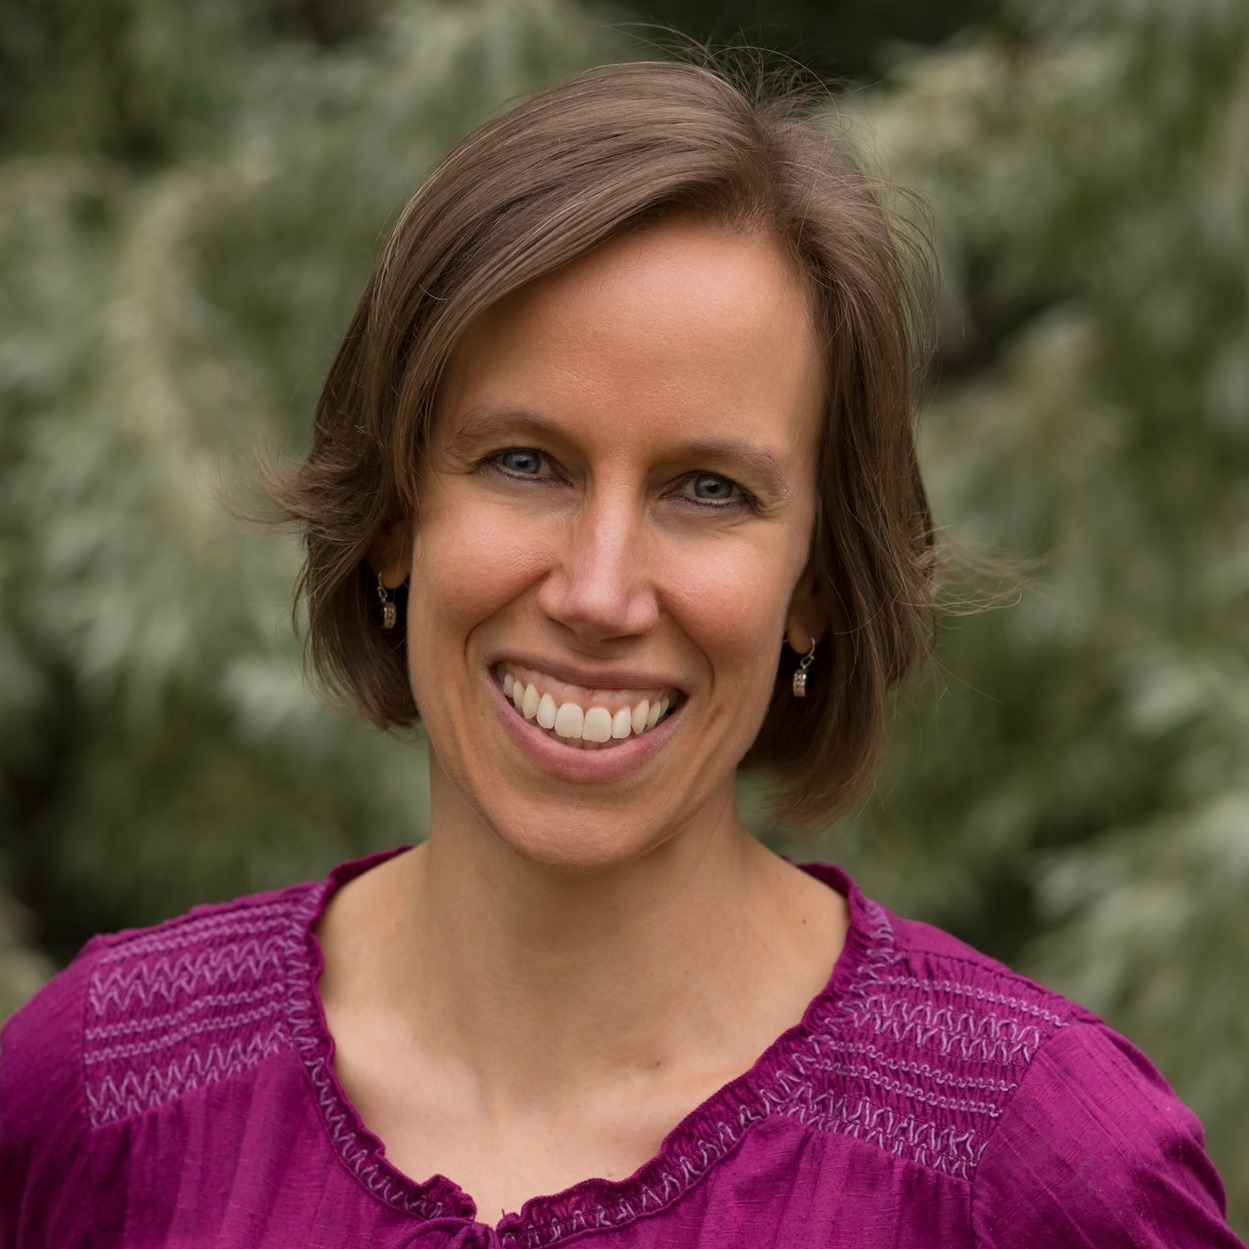
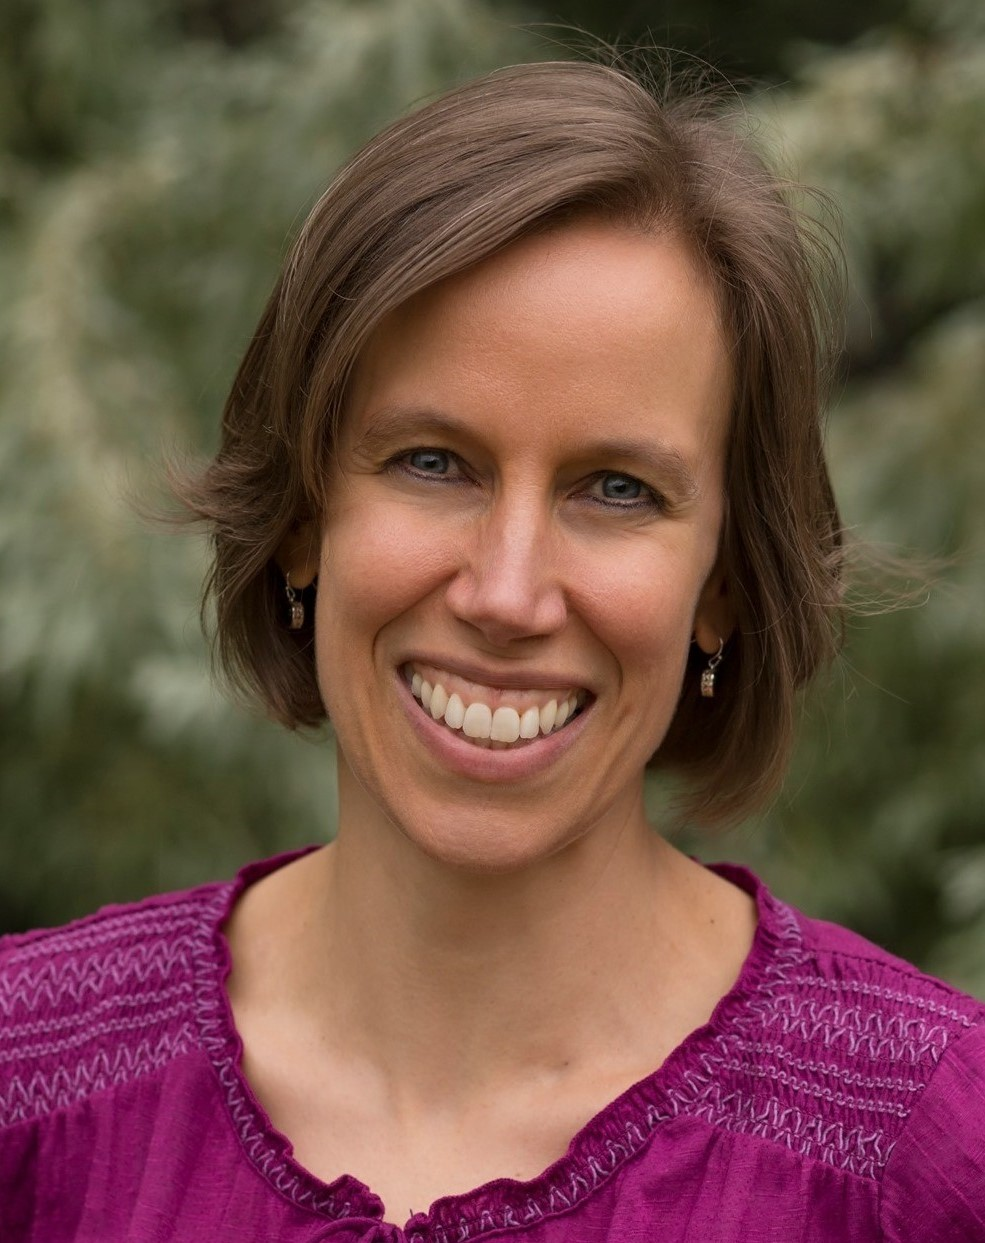
final

diff --git a/style.css b/style.css
@@ -78,13 +78,9 @@ i {
     color: #294649;
 }
 .main-section {
-    /* background-size: cover; */
     padding: 30px;
     height: 100%;
     width: 100%;
-    /* background-attachment: fixed;
-    background-position: center;
-    background-repeat: no-repeat; */
 }
     
 .main-flex {
@@ -99,9 +95,10 @@ i {
     font-family: 'Island Moments', cursive;
     justify-self: flex-start;
     position: absolute;
-    bottom: 100px;
-    left: 400px;
-    /* repostion */
+    bottom: 270px;
+    left: 775px;
+    transform: rotate(-10deg);
+    text-shadow: #ccb7a9;
 }    
 
 .my-photo {
@@ -109,9 +106,11 @@ i {
 }
 
 .my-photo img{
-    border-radius: 100px;
-    height: 300px;
+    border-radius: 50%;
+    height: 475px;
     border: solid #ccb7a9;
+    margin-top: 50px;
+    margin-left: 100px;
 }
 
 .top-heading {
@@ -123,7 +122,7 @@ i {
     border-radius: 5px;
     font-family: 'Syne Mono', monospace;
     justify-content: flex-end;
-    margin: 50px;
+    margin: 100px 40px 40px 40px;
 }
     
 .top-heading h1 {
@@ -134,6 +133,30 @@ i {
     font-size: 25px;
 }
 
+.top-heading h3 a:link {
+    color: #c2601c;
+    background-color: transparent;
+    text-decoration: none;
+  }
+
+.top-heading h3 a:visited {
+    color: #ac6026;
+    background-color: transparent;
+    text-decoration: underline;
+  }
+
+  .top-heading h3 a:hover {
+    color: #ad7e5a;
+    background-color: transparent;
+    text-decoration: none;
+  }
+
+  .top-heading h3 a:active {
+    color: #c0dce6;
+    background-color: transparent;
+    text-decoration: underline;
+  }
+
 .quote {
     font-family: 'Lora', serif;
     font-size: 20px;
@@ -143,7 +166,7 @@ i {
     height: fit-content;
     border-radius: 5px;
     padding: 5px 10px 5px 20px;
-    margin-left: 200px;
+    margin-left: 150px;
 }
 
 .photo-credit {
@@ -151,4 +174,11 @@ i {
     bottom: 0;
     right: 0;
     color: #ccb7a9;
+    margin: 20px;
+}
+.photo-credit a:link {
+    color:#c2601c;
+}
+.photo-credit a:visited {
+    color: #ad7e5a;
 }

diff --git a/index.html b/index.html
@@ -56,12 +56,13 @@
         <main class="main-section">
             <div class="main-flex">
                 <div class="my-photo">
-                    <img src="assets/TubaChristmas.jpg" alt="Photo of Me">
+                    <img src="assets/photo.jpg" alt="Photo of Me">
                 </div>
                 <div>
                     <div class="top-heading">
                         <h1>I'm Alberta Young</h1>
-                        <h3>Tech-Mom, Teacher, Learner, Mom +3</h3>
+                        <h3><a href="https://www.tech-moms.org/" target="_blank">Tech-Mom,</a> Teacher, Learner, Mom +3
+                        </h3>
                     </div>
                     <div class="quote">
                         <p>“It’s not that I’m so smart, it’s just that I stay with problems longer.” – Albert Einstein
@@ -74,11 +75,12 @@
     </div>
     <h1 class="big-hi">HI!</h1>
     <p class="photo-credit">Photo by
-        <a
-            href="https://unsplash.com/@susan_wilkinson?utm_source=unsplash&utm_medium=referral&utm_content=creditCopyText">
+        <a href="https://unsplash.com/@susan_wilkinson?utm_source=unsplash&utm_medium=referral&utm_content=creditCopyText"
+            target="_blank">
             Susan Wilkinson </a>
         on
-        <a href="https://unsplash.com/?utm_source=unsplash&utm_medium=referral&utm_content=creditCopyText">Unsplash</a>
+        <a href="https://unsplash.com/?utm_source=unsplash&utm_medium=referral&utm_content=creditCopyText"
+            target="_blank">Unsplash</a>
     </p>
 
 </body>
